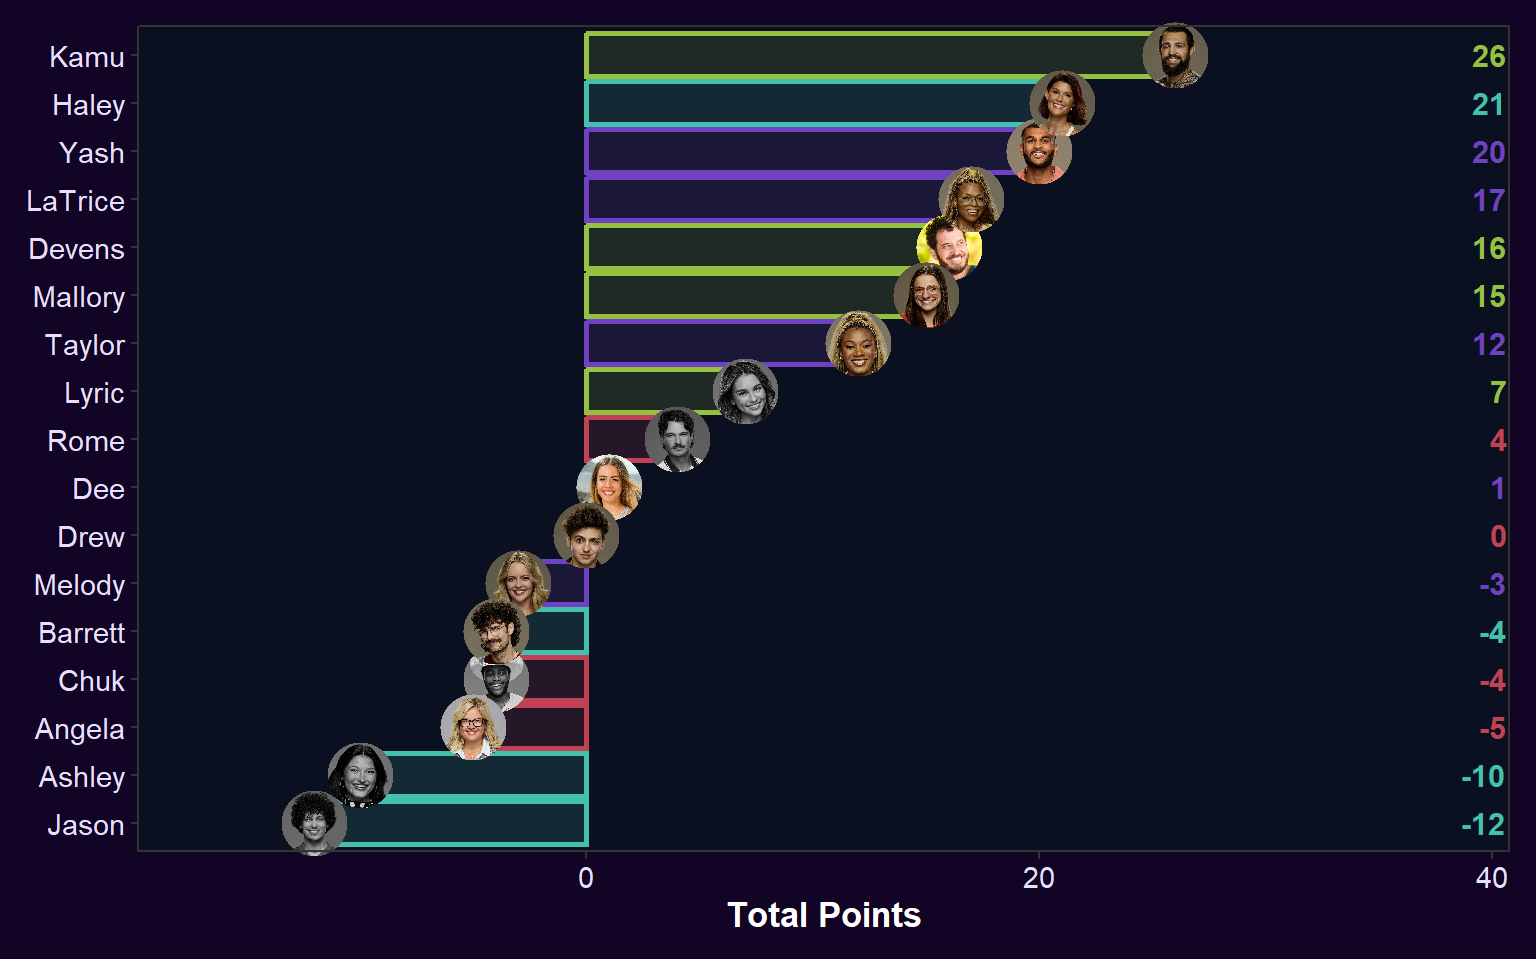
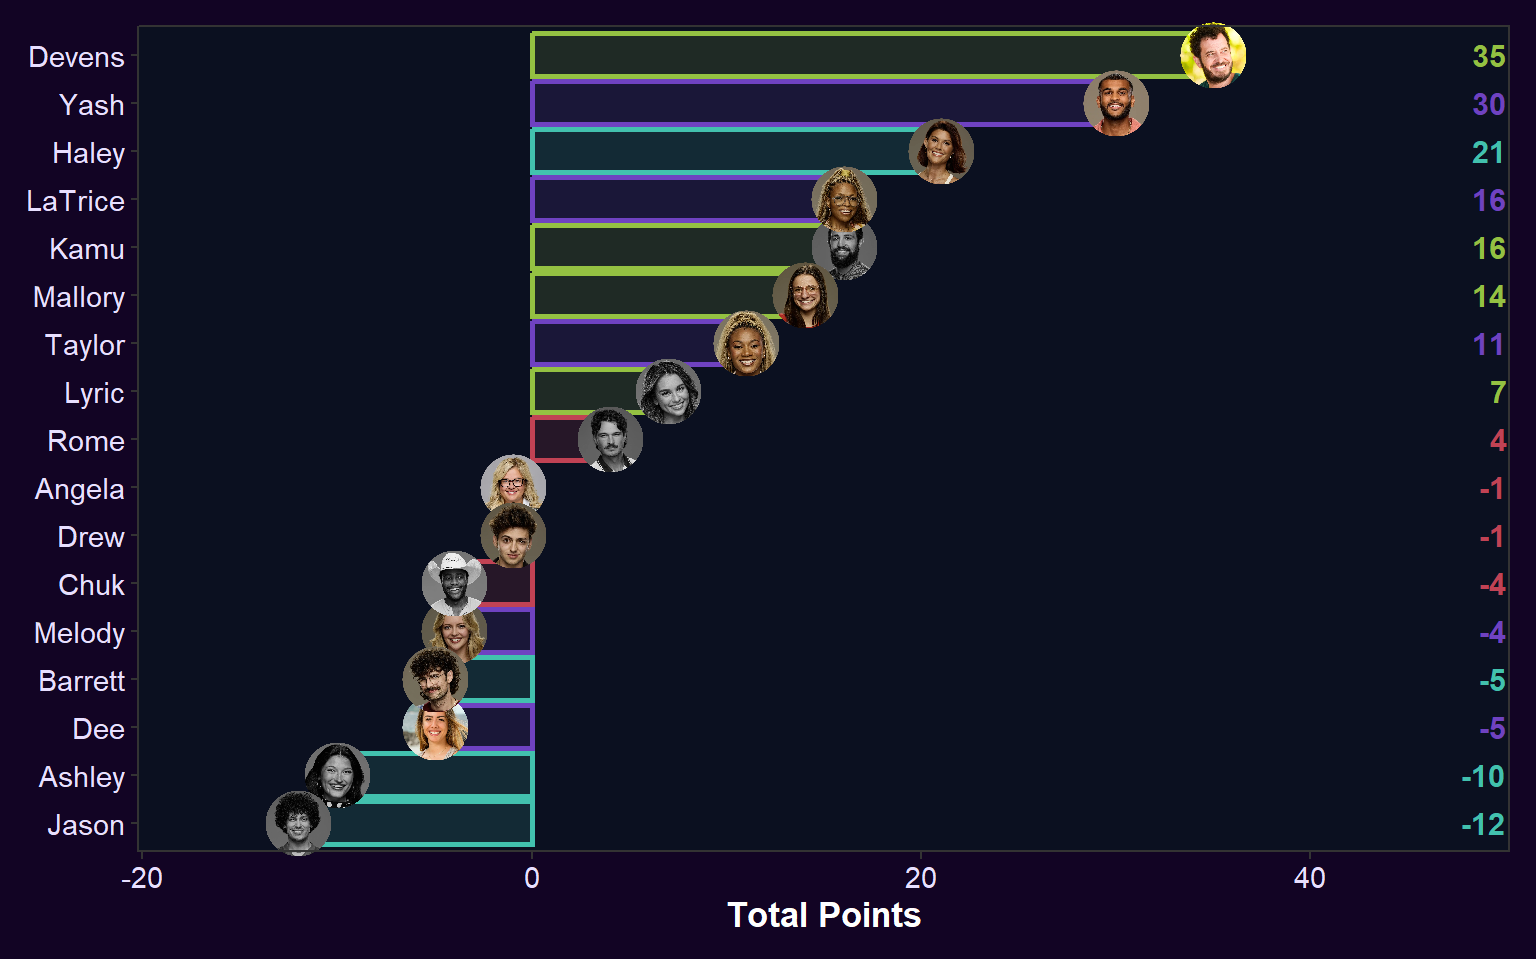
Aug21

diff --git a/index.html b/index.html
@@ -120,28 +120,28 @@ grid-auto-rows: minmax(0, 1fr);">
 <td style="text-align: right;">2</td>
 <td style="text-align: right;">4</td>
 <td style="text-align: right;">1</td>
-<td style="text-align: right;">5</td>
+<td style="text-align: right;">6</td>
 </tr>
 <tr class="even">
 <td style="text-align: left;">Christine</td>
 <td style="text-align: right;">0</td>
 <td style="text-align: right;">0</td>
-<td style="text-align: right;">1</td>
-<td style="text-align: right;">3</td>
+<td style="text-align: right;">2</td>
+<td style="text-align: right;">4</td>
 </tr>
 <tr class="odd">
 <td style="text-align: left;">Emily</td>
 <td style="text-align: right;">1</td>
 <td style="text-align: right;">0</td>
 <td style="text-align: right;">2</td>
-<td style="text-align: right;">5</td>
+<td style="text-align: right;">6</td>
 </tr>
 <tr class="even">
 <td style="text-align: left;">Jennet</td>
-<td style="text-align: right;">3</td>
+<td style="text-align: right;">4</td>
+<td style="text-align: right;">2</td>
 <td style="text-align: right;">1</td>
-<td style="text-align: right;">1</td>
-<td style="text-align: right;">6</td>
+<td style="text-align: right;">7</td>
 </tr>
 </tbody>
 </table>
@@ -1226,6 +1226,158 @@ grid-auto-rows: minmax(0, 1fr);">
 <td style="text-align: left;">Aug 13 2026</td>
 <td style="text-align: right;">6</td>
 <td style="text-align: left;">Yash</td>
+<td style="text-align: left;">Jennet</td>
+<td style="text-align: left;">Wins HOH</td>
+<td style="text-align: right;">20</td>
+</tr>
+<tr class="even">
+<td style="text-align: left;">Aug 14 2026</td>
+<td style="text-align: right;">6</td>
+<td style="text-align: left;">Dee</td>
+<td style="text-align: left;">Jennet</td>
+<td style="text-align: left;">Exposes the power</td>
+<td style="text-align: right;">-20</td>
+</tr>
+<tr class="odd">
+<td style="text-align: left;">Aug 14 2026</td>
+<td style="text-align: right;">6</td>
+<td style="text-align: left;">Dee</td>
+<td style="text-align: left;">Jennet</td>
+<td style="text-align: left;">Gets Nominated</td>
+<td style="text-align: right;">-5</td>
+</tr>
+<tr class="even">
+<td style="text-align: left;">Aug 14 2026</td>
+<td style="text-align: right;">6</td>
+<td style="text-align: left;">Angela</td>
+<td style="text-align: left;">Christine</td>
+<td style="text-align: left;">Gets Nominated</td>
+<td style="text-align: right;">-5</td>
+</tr>
+<tr class="odd">
+<td style="text-align: left;">Aug 14 2026</td>
+<td style="text-align: right;">6</td>
+<td style="text-align: left;">Haley</td>
+<td style="text-align: left;">Emily</td>
+<td style="text-align: left;">Gets Nominated</td>
+<td style="text-align: right;">-5</td>
+</tr>
+<tr class="even">
+<td style="text-align: left;">Aug 15 2026</td>
+<td style="text-align: right;">6</td>
+<td style="text-align: left;">Yash</td>
+<td style="text-align: left;">Jennet</td>
+<td style="text-align: left;">Wins Veto</td>
+<td style="text-align: right;">10</td>
+</tr>
+<tr class="odd">
+<td style="text-align: left;">Aug 17 2026</td>
+<td style="text-align: right;">6</td>
+<td style="text-align: left;">Devens</td>
+<td style="text-align: left;">Bryan</td>
+<td style="text-align: left;">Uses a Power</td>
+<td style="text-align: right;">20</td>
+</tr>
+<tr class="even">
+<td style="text-align: left;">Aug 17 2026</td>
+<td style="text-align: right;">6</td>
+<td style="text-align: left;">Kamu</td>
+<td style="text-align: left;">Bryan</td>
+<td style="text-align: left;">Renominated</td>
+<td style="text-align: right;">-10</td>
+</tr>
+<tr class="odd">
+<td style="text-align: left;">Aug 20 2026</td>
+<td style="text-align: right;">6</td>
+<td style="text-align: left;">Angela</td>
+<td style="text-align: left;">Christine</td>
+<td style="text-align: left;">Wins BlockBuster</td>
+<td style="text-align: right;">10</td>
+</tr>
+<tr class="even">
+<td style="text-align: left;">Aug 20 2026</td>
+<td style="text-align: right;">6</td>
+<td style="text-align: left;">Haley</td>
+<td style="text-align: left;">Emily</td>
+<td style="text-align: left;">Survives the Vote</td>
+<td style="text-align: right;">5</td>
+</tr>
+<tr class="odd">
+<td style="text-align: left;">Aug 20 2026</td>
+<td style="text-align: right;">6</td>
+<td style="text-align: left;">LaTrice</td>
+<td style="text-align: left;">Jennet</td>
+<td style="text-align: left;">Shoutout During Live Evicition</td>
+<td style="text-align: right;">-1</td>
+</tr>
+<tr class="even">
+<td style="text-align: left;">Aug 20 2026</td>
+<td style="text-align: right;">6</td>
+<td style="text-align: left;">Devens</td>
+<td style="text-align: left;">Bryan</td>
+<td style="text-align: left;">Shoutout During Live Evicition</td>
+<td style="text-align: right;">-1</td>
+</tr>
+<tr class="odd">
+<td style="text-align: left;">Aug 20 2026</td>
+<td style="text-align: right;">6</td>
+<td style="text-align: left;">Taylor</td>
+<td style="text-align: left;">Jennet</td>
+<td style="text-align: left;">Shoutout During Live Evicition</td>
+<td style="text-align: right;">-1</td>
+</tr>
+<tr class="even">
+<td style="text-align: left;">Aug 20 2026</td>
+<td style="text-align: right;">6</td>
+<td style="text-align: left;">Mallory</td>
+<td style="text-align: left;">Bryan</td>
+<td style="text-align: left;">Shoutout During Live Evicition</td>
+<td style="text-align: right;">-1</td>
+</tr>
+<tr class="odd">
+<td style="text-align: left;">Aug 20 2026</td>
+<td style="text-align: right;">6</td>
+<td style="text-align: left;">Melody</td>
+<td style="text-align: left;">Jennet</td>
+<td style="text-align: left;">Shoutout During Live Evicition</td>
+<td style="text-align: right;">-1</td>
+</tr>
+<tr class="even">
+<td style="text-align: left;">Aug 20 2026</td>
+<td style="text-align: right;">6</td>
+<td style="text-align: left;">Drew</td>
+<td style="text-align: left;">Christine</td>
+<td style="text-align: left;">Shoutout During Live Evicition</td>
+<td style="text-align: right;">-1</td>
+</tr>
+<tr class="odd">
+<td style="text-align: left;">Aug 20 2026</td>
+<td style="text-align: right;">6</td>
+<td style="text-align: left;">Barrett</td>
+<td style="text-align: left;">Emily</td>
+<td style="text-align: left;">Shoutout During Live Evicition</td>
+<td style="text-align: right;">-1</td>
+</tr>
+<tr class="even">
+<td style="text-align: left;">Aug 20 2026</td>
+<td style="text-align: right;">6</td>
+<td style="text-align: left;">Angela</td>
+<td style="text-align: left;">Christine</td>
+<td style="text-align: left;">Shoutout During Live Evicition</td>
+<td style="text-align: right;">-1</td>
+</tr>
+<tr class="odd">
+<td style="text-align: left;">Aug 20 2026</td>
+<td style="text-align: right;">6</td>
+<td style="text-align: left;">Dee</td>
+<td style="text-align: left;">Jennet</td>
+<td style="text-align: left;">Shoutout During Live Evicition</td>
+<td style="text-align: right;">-1</td>
+</tr>
+<tr class="even">
+<td style="text-align: left;">Aug 20 2026</td>
+<td style="text-align: right;">7</td>
+<td style="text-align: left;">Dee</td>
 <td style="text-align: left;">Jennet</td>
 <td style="text-align: left;">Wins HOH</td>
 <td style="text-align: right;">20</td>
